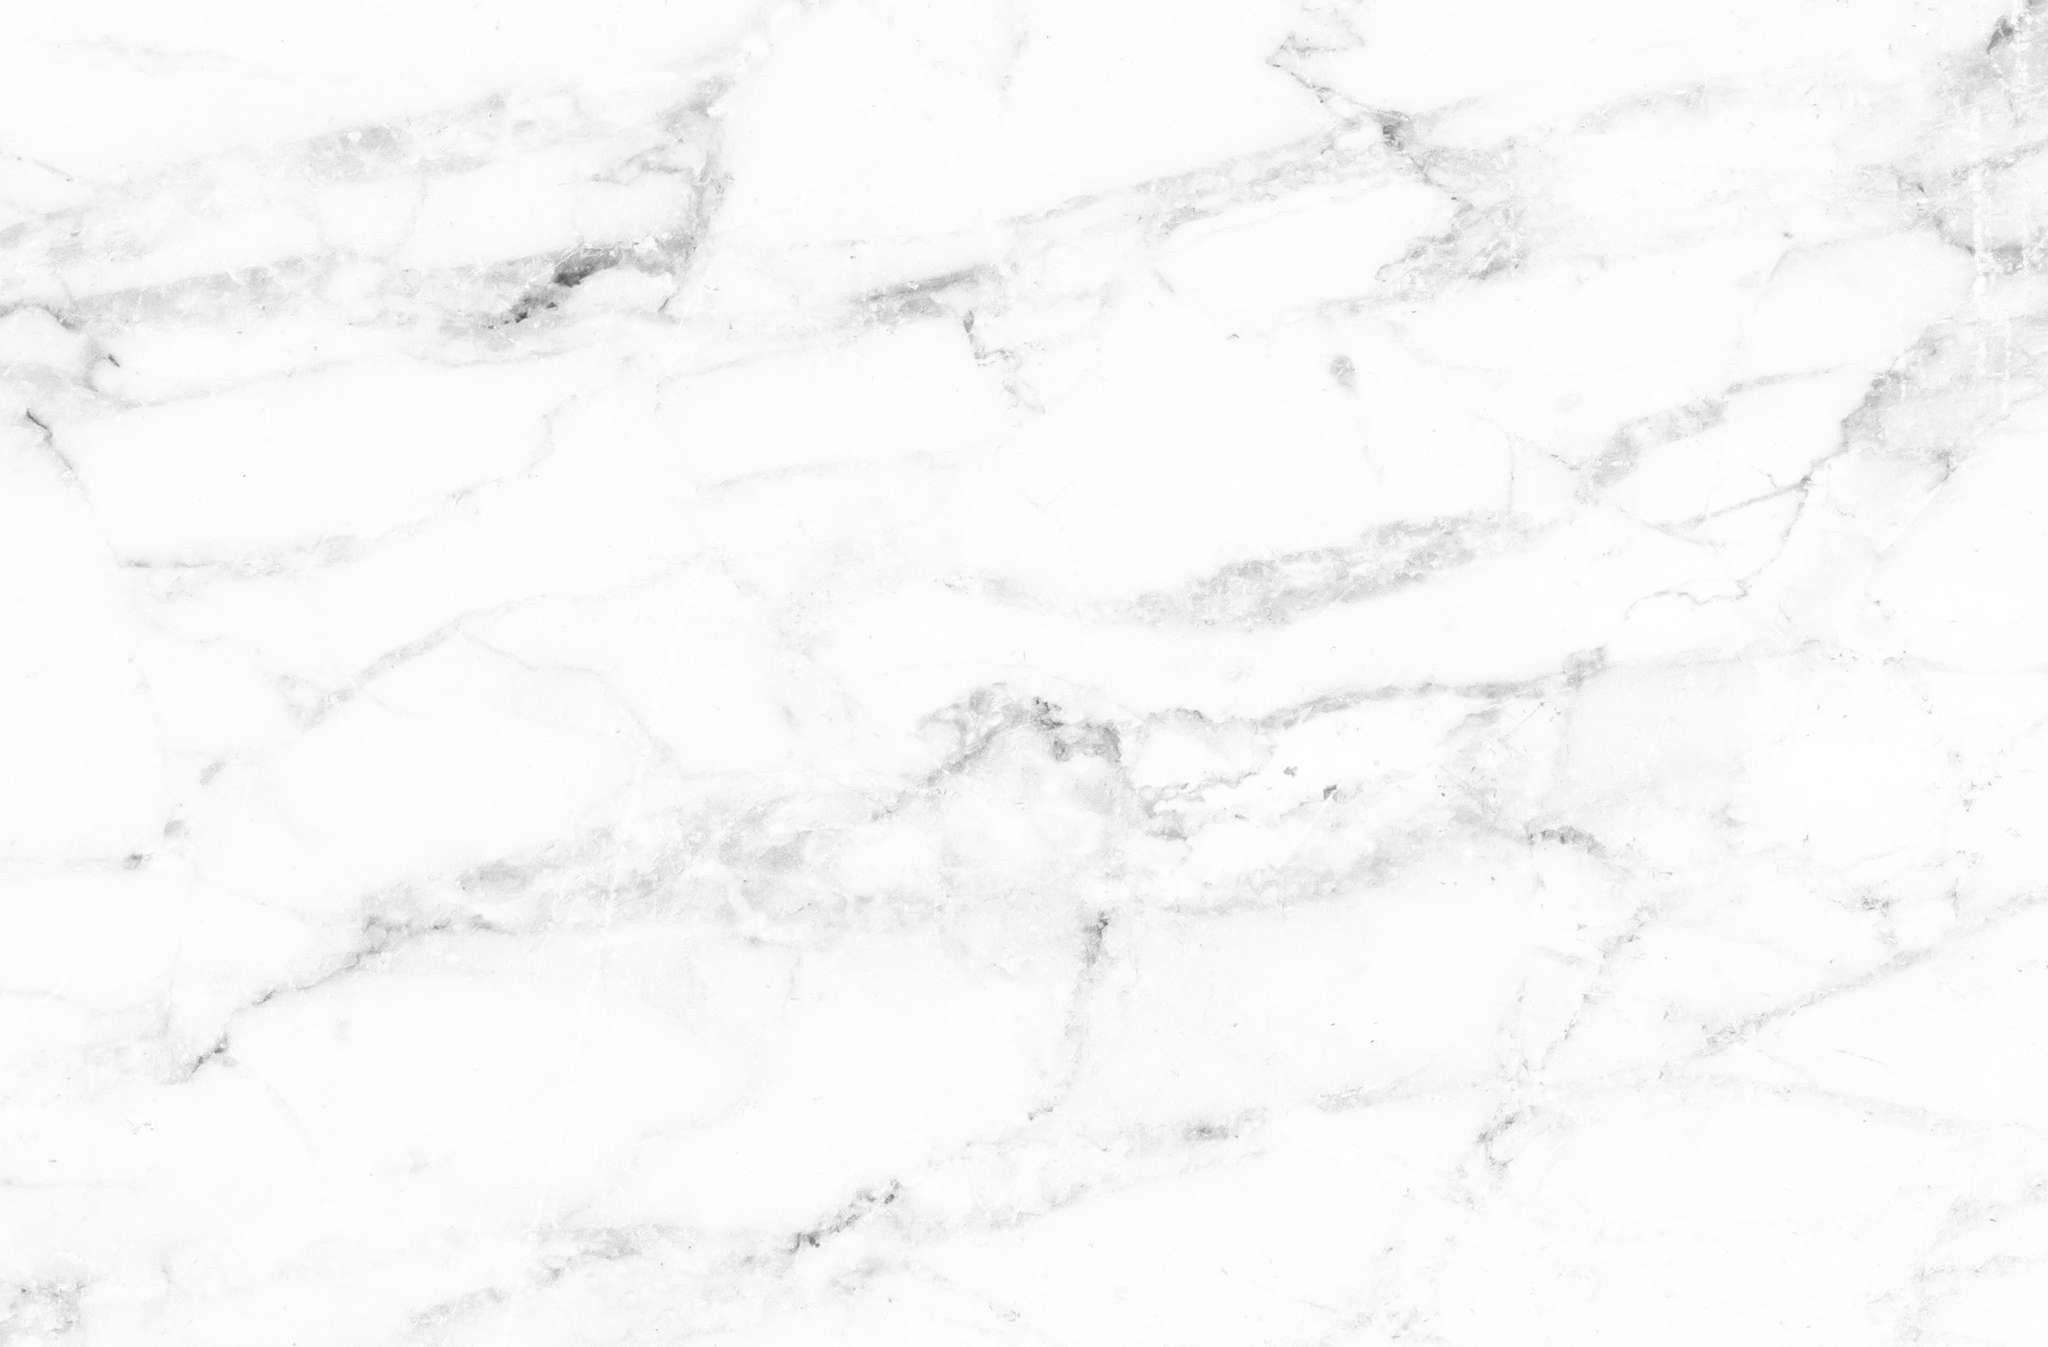
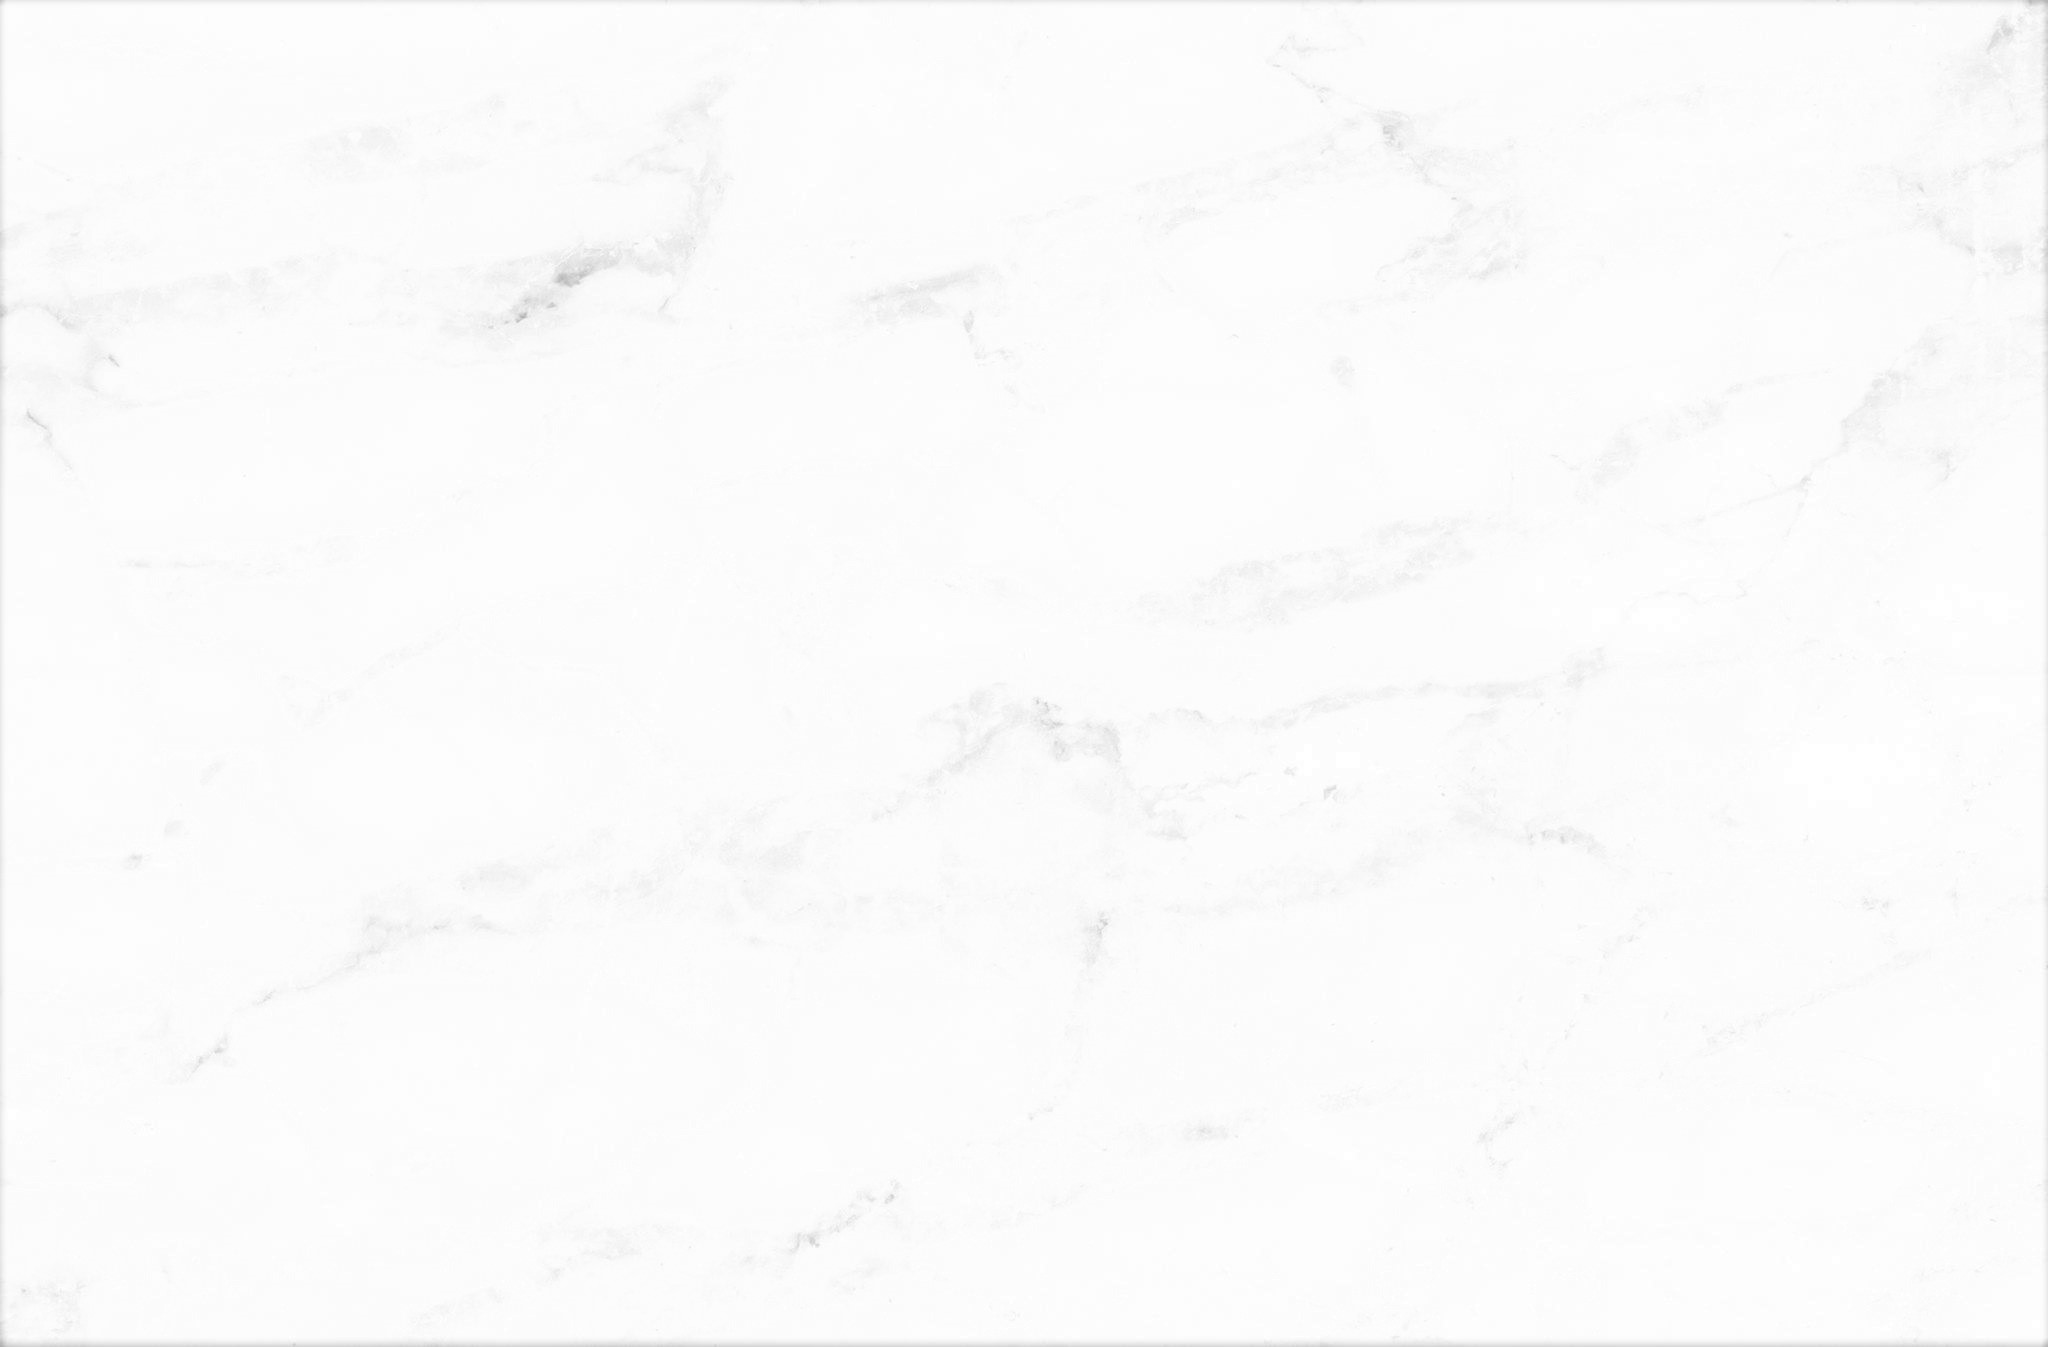
different html pages + includes problems solved

diff --git a/templates/about.html b/templates/about.html
@@ -1,0 +1,26 @@
+<!DOCTYPE html>
+<html>
+<head>
+    <link rel="stylesheet" href="../css/navbar.css">
+    <link rel="stylesheet" href="../css/main.css">
+
+    <link rel="preconnect" href="https://fonts.gstatic.com">
+    <link href="https://fonts.googleapis.com/css2?family=Slabo+27px&display=swap" rel="stylesheet">
+</head>
+<body>
+    <section>
+        <nav>
+            <!--logo-->
+            <a href="../index.html" class="logo">Beatriz Mendes</a>
+            <!--menu-->
+            <ul>
+            <li><a href="../index.html">Home</a></li>
+            <li><a href="about.html">About</a></li>
+            <li><a href="contacts.html">Contacts</a></li>
+            </ul>
+            <!--bars--------------->
+            <div class="toggle"></div>        
+        </nav>
+    </section>
+</body>
+</html>

diff --git a/templates/contacts.html b/templates/contacts.html
@@ -1,0 +1,25 @@
+<html>
+<head>
+    <link rel="stylesheet" href="../css/navbar.css">
+    <link rel="stylesheet" href="../css/main.css">
+
+    <link rel="preconnect" href="https://fonts.gstatic.com">
+    <link href="https://fonts.googleapis.com/css2?family=Slabo+27px&display=swap" rel="stylesheet">
+</head>
+<body>
+    <section>
+        <nav>
+            <!--logo-->
+            <a href="../index.html" class="logo">Beatriz Mendes</a>
+            <!--menu-->
+            <ul>
+            <li><a href="../index.html">Home</a></li>
+            <li><a href="about.html">About</a></li>
+            <li><a href="contacts.html">Contacts</a></li>
+            </ul>
+            <!--bars--------------->
+            <div class="toggle"></div>        
+        </nav>
+    </section>
+</body>
+</html>

diff --git a/index.html b/index.html
@@ -11,12 +11,12 @@
     <section>
         <nav>
             <!--logo-->
-            <a href="#" class="logo">Beatriz Mendes</a>
+            <a href="index.html" class="logo">Beatriz Mendes</a>
             <!--menu-->
             <ul>
-            <li><a href="#">Home</a></li>
-            <li><a href="#">About</a></li>
-            <li><a href="#">Contacts</a></li>
+            <li><a href="index.html">Home</a></li>
+            <li><a href="templates/about.html">About</a></li>
+            <li><a href="templates/contacts.html">Contacts</a></li>
             </ul>
             <!--bars--------------->
             <div class="toggle"></div>        
